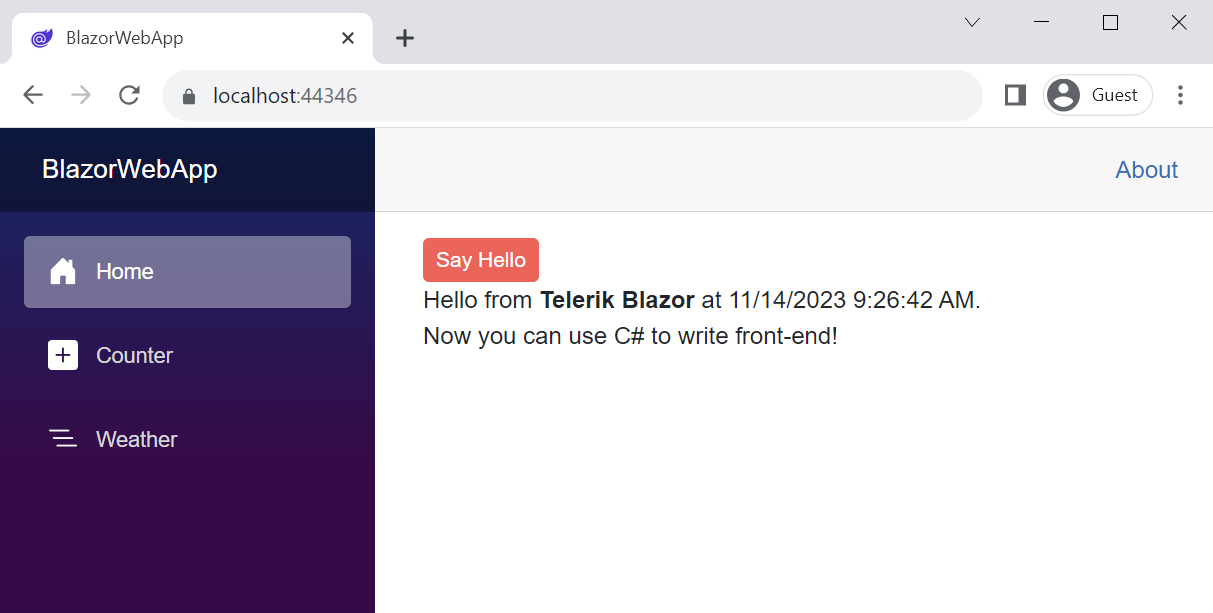
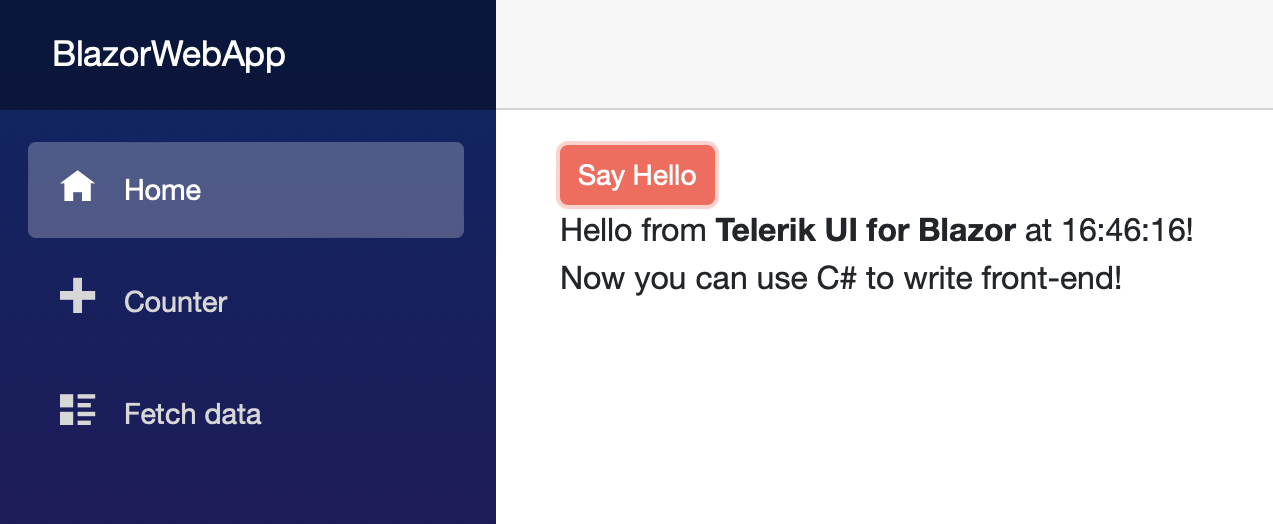
docs(common): Update First Steps final screenshot (#2289)

diff --git a/_contentTemplates/common/get-started.md b/_contentTemplates/common/get-started.md
@@ -56,27 +56,28 @@ In this tutorial, you will use the [Telerik NuGet feed]({%slug installation/nuge
     
         @page "/"
         
-        <TelerikButton OnClick="@SayHelloHandler" ThemeColor="primary">Say Hello</TelerikButton>
-        
-        <br />
-        
-        @helloString
-        
+        <TelerikButton ThemeColor="@ThemeConstants.Button.ThemeColor.Primary"
+                    OnClick="@SayHelloHandler">Say Hello</TelerikButton>
+
+        <p>@HelloString</p>
+
         @code {
-           MarkupString helloString;
-        
-           void SayHelloHandler()
-           {
-               string msg = string.Format("Hello from <strong>Telerik Blazor</strong> at {0}.<br /> Now you can use C# to write front-end!", DateTime.Now);
-               helloString = new MarkupString(msg);
-           }
+            private MarkupString HelloString { get; set; }
+
+            private void SayHelloHandler()
+            {
+                string msg = $"Hello from <strong>Telerik UI for Blazor</strong> at {DateTime.Now.ToString("HH:mm:ss")}!" +
+                    "<br /> Now you can use C# to write front-end!";
+
+                HelloString = new MarkupString(msg);
+            }
         }
 
-1. Run the app in the browser by pressing `F5`. You should see something like this:
+1. Run the app in the browser. You should see something like this:
 
     ![Telerik Blazor app in the browser](images/blazor-app-in-browser.png)
 
-Well done! Now you have you first Telerik UI for Blazor component running in your Blazor app.
+Well done! Now you have your first Telerik UI for Blazor component running in your Blazor app.
 
 @[template](/_contentTemplates/common/get-started.md#next-steps-after-getting-started)
 
@@ -85,15 +86,12 @@ Well done! Now you have you first Telerik UI for Blazor component running in you
 #next-steps-after-getting-started
 ## Next Steps
 
-* [Explore the Live Telerik UI for Blazor Demos](https://demos.telerik.com/blazor-ui/)
+* [Check the list of available components]({%slug blazor-overview%}#list-of-components).
+* [Explore the live Telerik UI for Blazor demos](https://demos.telerik.com/blazor-ui/).
+* [Learn the data binding fundamentals for Telerik UI for Blazor components]({%slug common-features-data-binding-overview%}).
+* [Get started with the data Grid]({%slug grid-overview%}).
+* [Review the built-in themes or create custom ones]({%slug themes-built-in%}).
 
-* [Get Started with the Data Grid]({%slug grid-overview%})
-
-* [Create Custom Styles by Using ThemeBuilder]({%slug themebuilder%})
-
-* [See the Data Binding Fundamentals for Telerik UI for Blazor Components]({%slug common-features-data-binding-overview%}).
-
-* [Explore the List of Available Components]({%slug blazor-overview%}#list-of-components).
 #end
 
 #demos-project-net-version

diff --git a/getting-started/web-app.md b/getting-started/web-app.md
@@ -100,38 +100,7 @@ The final step in this tutorial is to use a Telerik UI for Blazor component in a
 
 1. In the `~/Components/Pages/Home.razor` view, add a `TelerikButton` component.
 
-
-    **RAZOR**
-    
-        <TelerikButton>Say Hello</TelerikButton>
-        
-1. Optionally, hook up a click handler that will show a message. The resulting view will look like this:
-
-    **RAZOR**
-    
-        @page "/"
-        
-        <TelerikButton OnClick="@SayHelloHandler"
-                       ThemeColor="@ThemeConstants.Button.ThemeColor.Primary">Say Hello</TelerikButton>
-        
-        <p> @HelloString </p>
-        
-        @code {
-           private MarkupString HelloString { get; set; }
-        
-           private void SayHelloHandler()
-           {
-               string msg = string.Format("Hello from <strong>Telerik UI for Blazor</strong> at {0}.<br /> Now you can use C# to write front-end!", DateTime.Now);
-               HelloString = new MarkupString(msg);
-           }
-        }
-
-1. Run the app in the browser by pressing `F5`. You should see something like this:
-
-    ![Telerik Blazor app in the browser](images/blazor-app-in-browser.png)
-
-Well done! Now you have your first Telerik UI for Blazor component running in your Blazor Web App.
-
+@[template](/_contentTemplates/common/get-started.md#add-component-sample)
 
 ## See Also
 

diff --git a/getting-started/client-blazor.md b/getting-started/client-blazor.md
@@ -94,6 +94,7 @@ Now your project can use the Telerik UI for Blazor components.
 The final step in this tutorial is to use a Telerik UI for Blazor component in a view and run it in the browser.
 
 1. In the `~/Pages/Index.razor` view, add a `TelerikButton` component.
+
 @[template](/_contentTemplates/common/get-started.md#add-component-sample)
 
 ## Video Tutorial
